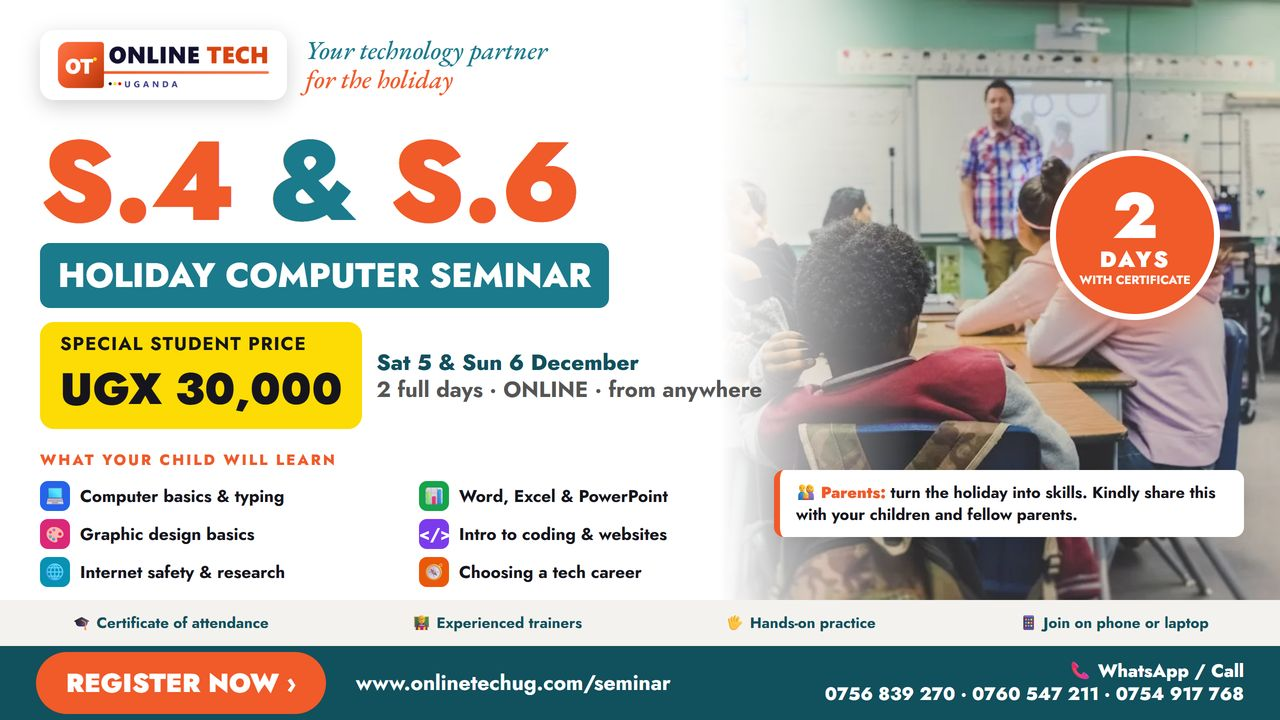
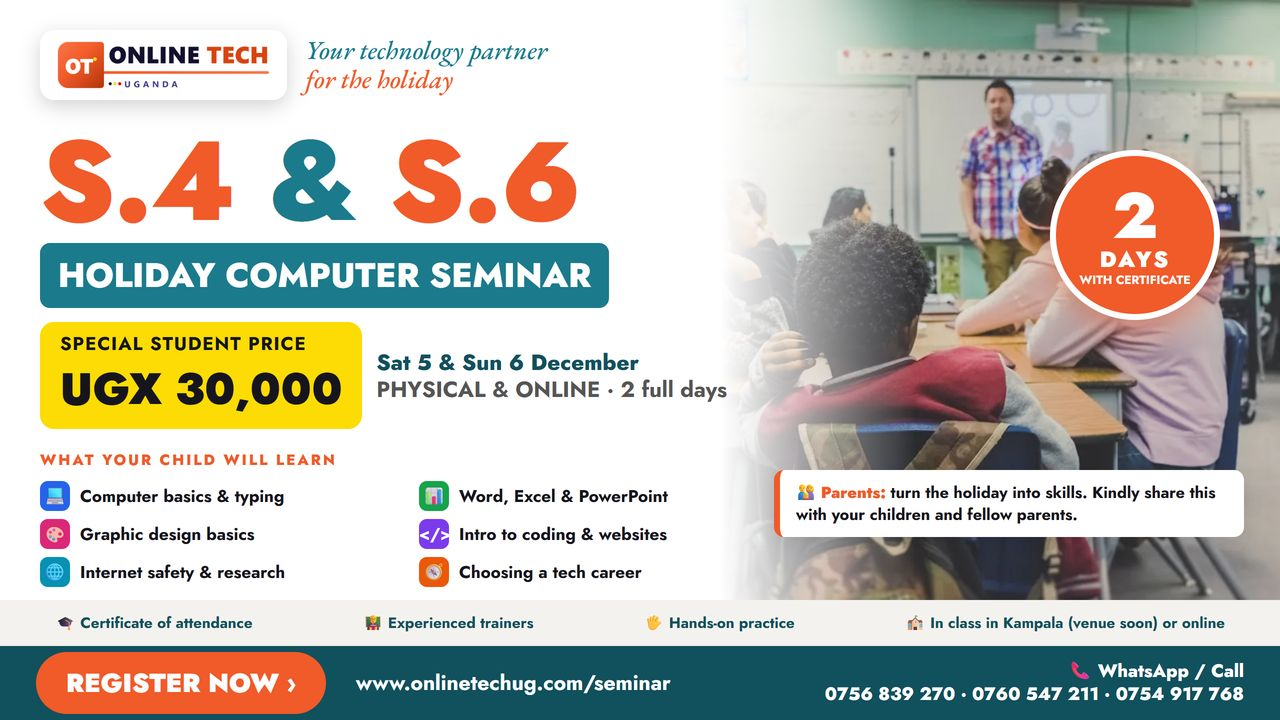
Seminar: physical and online, venue to be announced; form asks how the student will attend

diff --git a/apps/web/src/app/seminar/page.tsx b/apps/web/src/app/seminar/page.tsx
@@ -29,7 +29,7 @@ export default function SeminarPage() {
         crumbs={[{ label: "S.4 & S.6 Seminar" }]}
         eyebrow="Make the holiday count"
         title="S.4 & S.6 Holiday Computer Seminar"
-        subtitle="Saturday 5 and Sunday 6 December 2026 — two full days, online, for Senior Four and Senior Six leavers. Special student price: UGX 30,000, with a certificate of attendance."
+        subtitle="Saturday 5 and Sunday 6 December 2026 — two full days, physical and online, for Senior Four and Senior Six leavers. Special student price: UGX 30,000, with a certificate of attendance."
         image="/web/photo-1509062522246-3755977927d7.webp"
       >
         <a href="#register" className="bg-white px-7 py-3.5 text-[12px] font-semibold uppercase tracking-[0.16em] text-ink-900 transition hover:bg-brand-500 hover:text-white">
@@ -54,7 +54,7 @@ export default function SeminarPage() {
           <div className="mt-8 grid gap-3 sm:grid-cols-3">
             {[
               ["UGX 30,000", "special student price, for both days"],
-              ["Sat 5 & Sun 6 Dec", "two days, online, on a phone or laptop"],
+              ["Sat 5 & Sun 6 Dec", "physical in Kampala (venue soon) or online"],
               ["Certificate", "of attendance for every student"],
             ].map(([big, small]) => (
               <div key={big} className="rounded-md bg-[#fcdc04] p-4 text-ink-900">
@@ -71,7 +71,7 @@ export default function SeminarPage() {
               expects. Kindly register your child, and share this page with fellow parents so their children can join too.
             </p>
             <a
-              href={whatsappLink("Hello! Online Tech Uganda is running a 2-day online computer seminar for S.4 and S.6 leavers on Saturday 5 and Sunday 6 December, UGX 30,000. Details and registration: https://www.onlinetechug.com/seminar")}
+              href={whatsappLink("Hello! Online Tech Uganda is running a 2-day online computer seminar for S.4 and S.6 leavers, physical and online, on Saturday 5 and Sunday 6 December, UGX 30,000. Details and registration: https://www.onlinetechug.com/seminar")}
               target="_blank"
               rel="noreferrer"
               className="mt-3 inline-flex items-center gap-2 rounded-full bg-[#25D366] px-4 py-2 text-[13px] font-bold text-white"

diff --git a/apps/web/src/components/seminar-form.tsx b/apps/web/src/components/seminar-form.tsx
@@ -20,6 +20,7 @@ export function SeminarForm() {
     const message = [
       `Student: ${get("student")}`,
       `Class just finished: ${get("level")}`,
+      `Attending: ${get("mode")}`,
       `School: ${get("school")}`,
       `Parent / guardian: ${get("parent")}`,
       get("note") ? `Note: ${get("note")}` : "",
@@ -71,7 +72,7 @@ export function SeminarForm() {
   return (
     <form onSubmit={submit} className="rounded-md bg-white p-6 shadow-sm">
       <p className="text-[24px] font-semibold text-ink-900">Register a student</p>
-      <p className="mt-1 text-[14px] text-ink-700/75">Parents may register for their children. Saturday 5 &amp; Sunday 6 December, online. We confirm how to pay.</p>
+      <p className="mt-1 text-[14px] text-ink-700/75">Parents may register for their children. Saturday 5 &amp; Sunday 6 December, physical (Kampala venue announced soon) or online. We confirm how to pay.</p>
       <p className="mt-2 text-[14px] font-semibold text-ink-900">📞 Call or WhatsApp: <a href="tel:+256756839270" className="text-brand-600">0756 839 270</a> · <a href="tel:+256760547211" className="text-brand-600">0760 547 211</a> · <a href="tel:+256754917768" className="text-brand-600">0754 917 768</a></p>
       <div className="mt-4 grid gap-3">
         <label className="text-[14px] font-semibold text-ink-800">Student&apos;s full name<input name="student" required minLength={2} className={input} /></label>
@@ -81,6 +82,13 @@ export function SeminarForm() {
             <option>Senior Four (S.4)</option>
             <option>Senior Six (S.6)</option>
             <option>Other</option>
+          </select>
+        </label>
+        <label className="text-[14px] font-semibold text-ink-800">
+          How will the student attend?
+          <select name="mode" required className={input}>
+            <option>Physical (in class, Kampala)</option>
+            <option>Online</option>
           </select>
         </label>
         <label className="text-[14px] font-semibold text-ink-800">School<input name="school" className={input} /></label>

diff --git a/apps/web/src/components/festival-strip.tsx b/apps/web/src/components/festival-strip.tsx
@@ -39,7 +39,7 @@ const FALLBACK: Strip[] = [
   // Industrial training, aimed squarely at the universities. Software first,
   // because that is most of what an intern here actually does.
   { text: "ONLINE industrial training — UGX 150,000, 1 Nov to 18 Dec", cta: "Apply now", href: "/internship", bg: "bg-brand-500", img: "/courses/python-programming.webp" },
-  { text: "S.4 & S.6 leavers — online computer seminar, Sat 5 & Sun 6 Dec, UGX 30,000", cta: "Register", href: "/seminar", bg: "bg-brand-600", img: "/courses/computer-basics.webp" },
+  { text: "S.4 & S.6 leavers — computer seminar, physical & online, Sat 5 & Sun 6 Dec, UGX 30,000", cta: "Register", href: "/seminar", bg: "bg-brand-600", img: "/courses/computer-basics.webp" },
   { text: "KIU students — your Nov–Dec internship, online, starts 2 Nov", cta: "Apply now", href: "/apply", bg: "bg-green-700", img: "/courses/web-development.webp" },
   { text: "Makerere · Kyambogo · MUBS · UCU · Ndejje — online internships from 1 Nov", cta: "See placements", href: "/internship", bg: "bg-green-700", img: "/courses/web-development.webp" },
   { text: "Intern on real client software from home — websites, systems, databases", cta: "Apply for a place", href: "/internship", bg: "bg-brand-700", img: "/courses/computer-networking.webp" },
